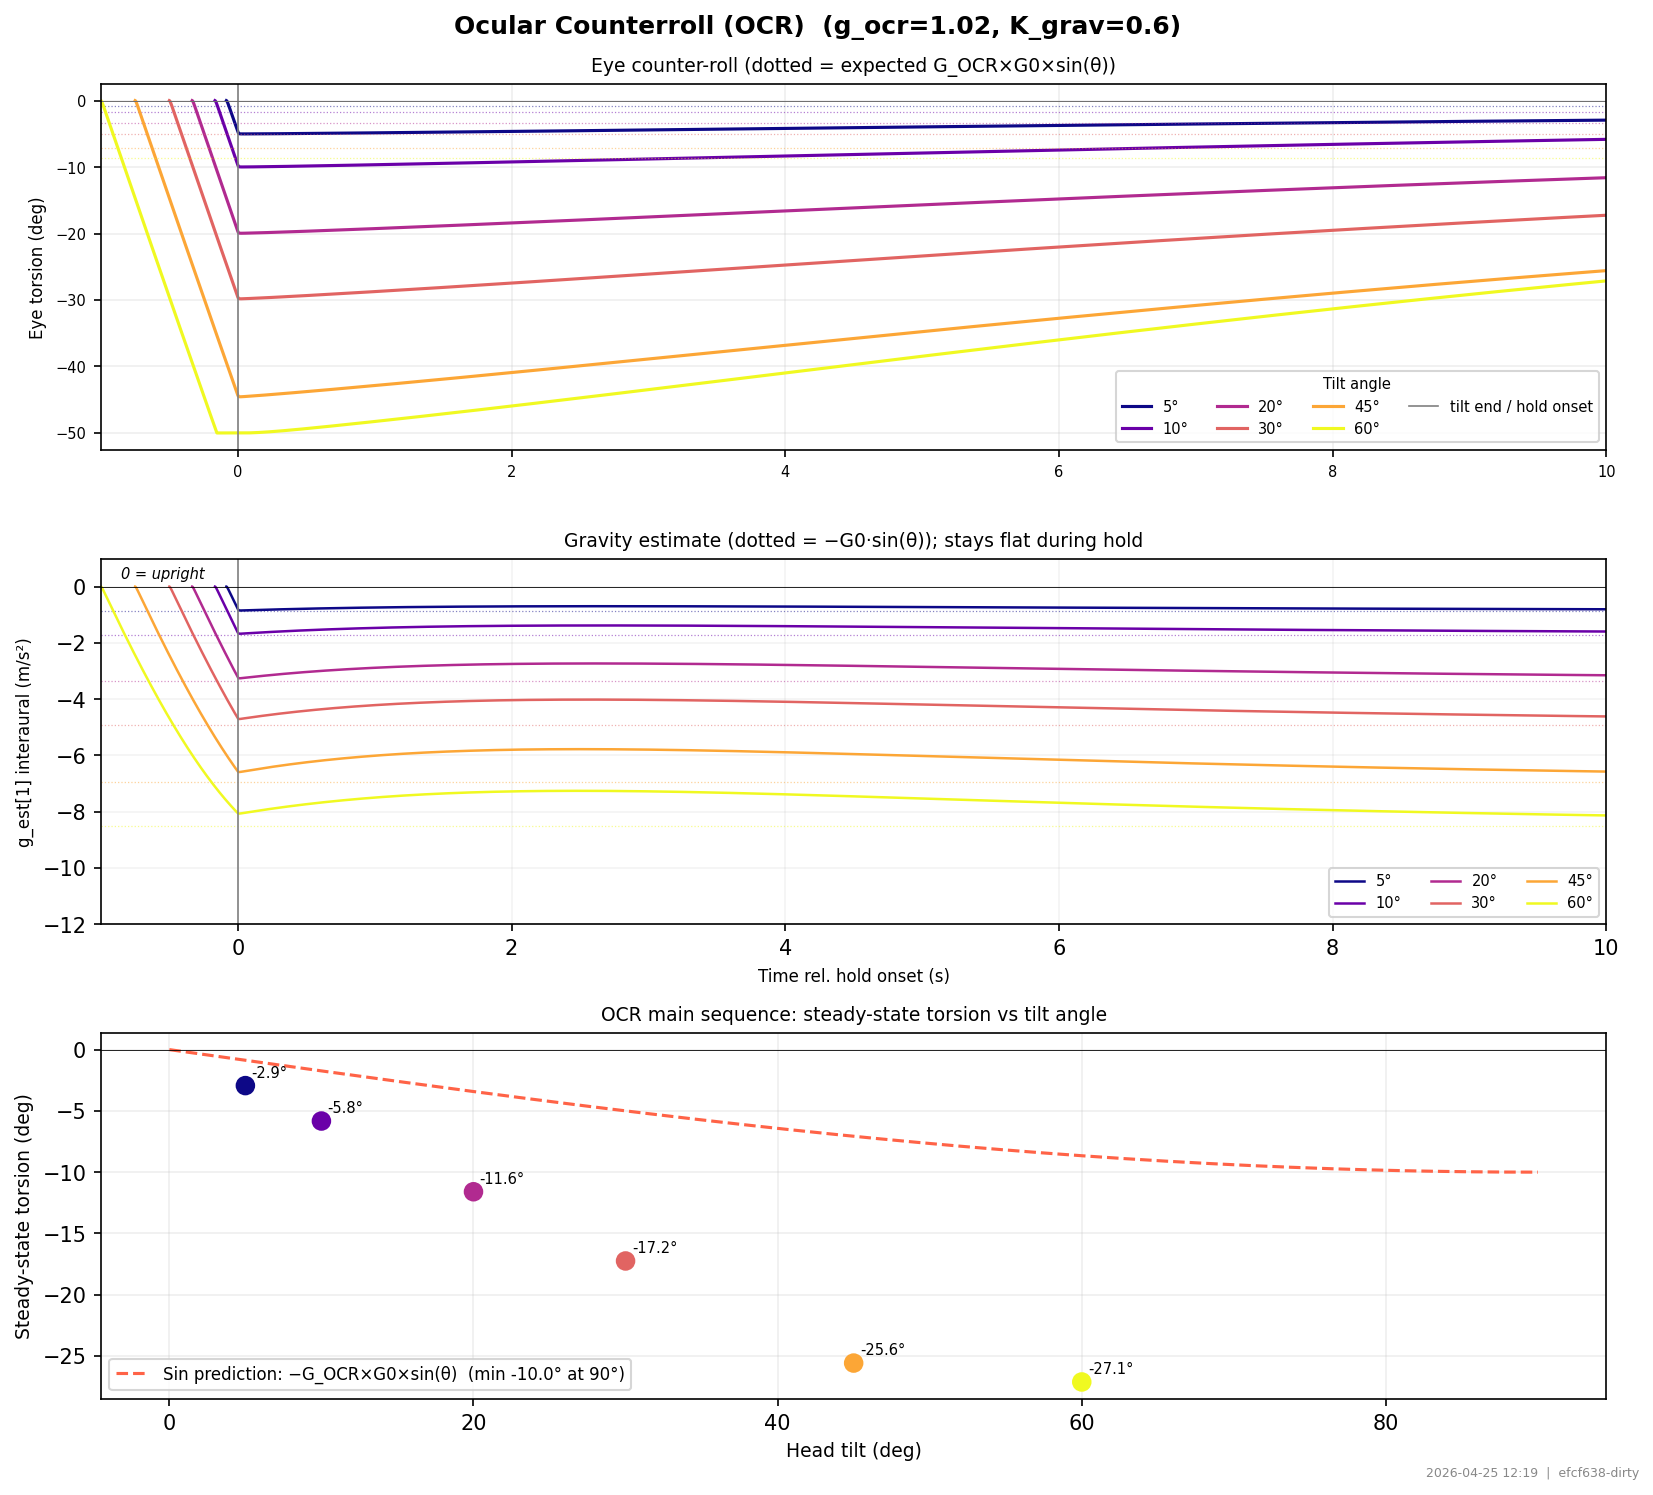
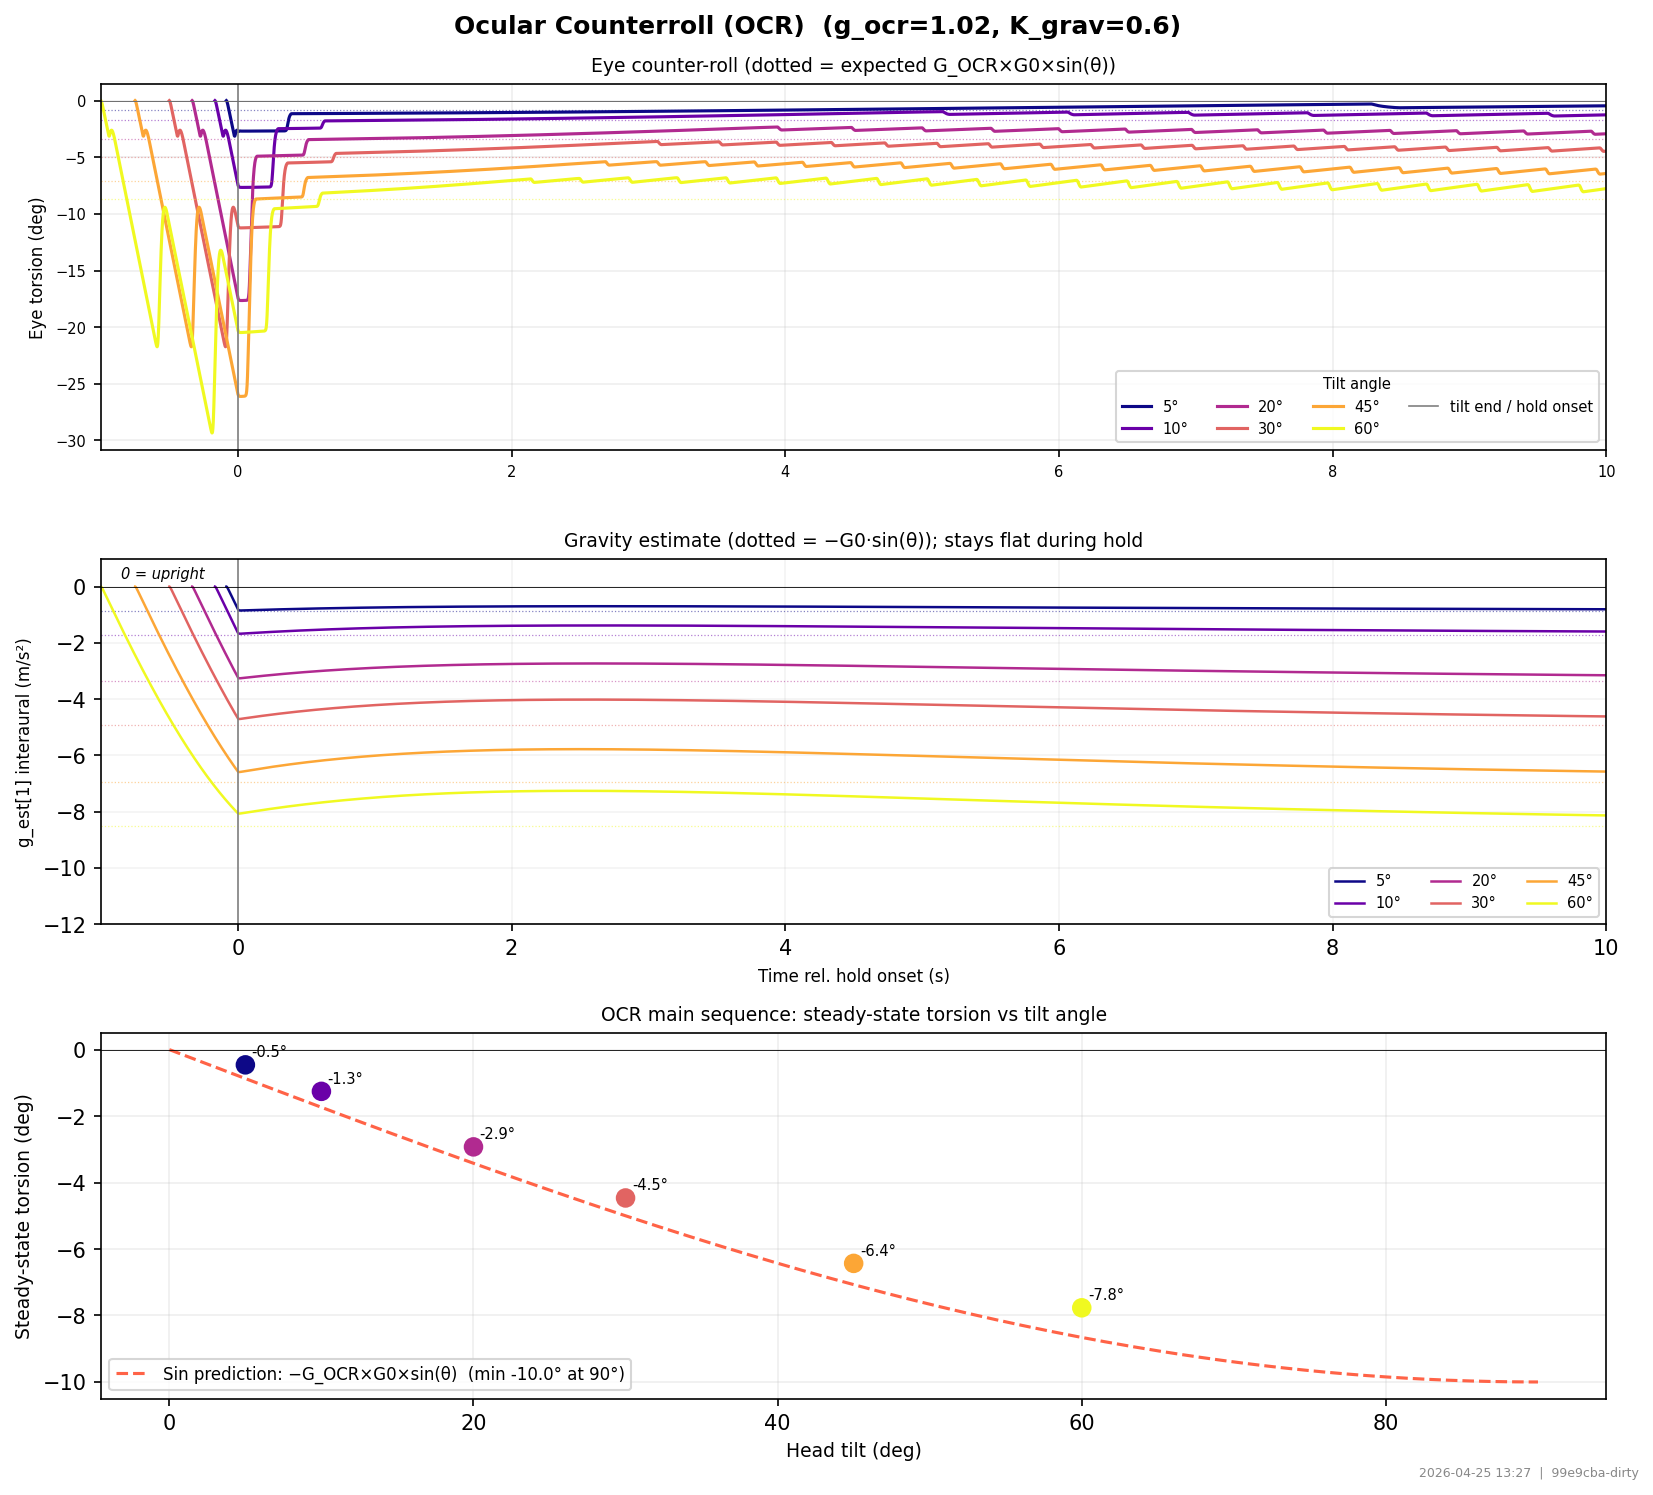
lots of fixes to torsion, seems to work pretty good

diff --git a/docs/benchmarks/index.html b/docs/benchmarks/index.html
@@ -135,18 +135,6 @@ h1   { font-size: 22px; margin-bottom: 4px; }
     </div>
 
     <div class="fig-card">
-      <a href="figures/vor_tc_comparison.png" target="_blank"><img src="figures/vor_tc_comparison.png" alt="VOR Time-Constant Extension"></a>
-      <h3>VOR Time-Constant Extension</h3>
-      <p class="desc">SPV decay after step rotation: with VS (tau_vs=20 s) vs without VS (tau_vs≈0). Bottom: velocity storage state trajectory during and after rotation.</p>
-      <div class="expected">
-        <strong>Expected behavior</strong>
-        Without VS: TC ≈ 5 s (canal); with VS: TC ≈ 15–25 s (velocity storage extends it ~4×).
-      </div>
-      <p class="citation">&#128214; Cohen, Matsuo & Raphan (1977) J Neurophysiol</p>
-      <span class="badge behavior">behavior</span>
-    </div>
-
-    <div class="fig-card">
       <a href="figures/vor_okr_cascade.png" target="_blank"><img src="figures/vor_okr_cascade.png" alt="VOR / OKR Signal Cascade (Internal)"></a>
       <h3>VOR / OKR Signal Cascade (Internal)</h3>
       <p class="desc">Left column (VOR in dark): head velocity → canal afferents → VS state → NI state → eye velocity. Right column (OKN): scene velocity → delayed retinal slip → VS → NI → eye velocity.</p>

diff --git a/src/oculomotor/models/brain_models/brain_model.py b/src/oculomotor/models/brain_models/brain_model.py
@@ -454,15 +454,16 @@ def step(x_brain, sensory_out, brain_params):
     # Canal velocity (not VS output) for gravity transport: canal decays with tau_c~5s so
     # sustained yaw rotation won't drive g_est[z] to large values and break tilt dumping.
     canal_vel       = PINV_SENS @ sensory_out.canal
-    # Otolith outputs in world frame [x=right, y=up, z=fwd]; gravity estimator uses canal frame
-    # [x=yaw=up, y=pitch, z=roll].  Mapping from _q2rv: canal=[yaw,pitch,roll]→world=[-pitch,yaw,roll]
-    # Inverse: canal[0]=world[1], canal[1]=-world[0], canal[2]=world[2]
-    f_oto_canal     = jnp.array([sensory_out.otolith[1], -sensory_out.otolith[0], sensory_out.otolith[2]])
-    dx_grav, g_est = ge.step(x_grav, jnp.concatenate([canal_vel, f_oto_canal]), brain_params)
-    # OCR: g_est[1] < 0 when left ear down (positive roll, canal-y = rightward).
-    # For left-ear-down tilt, OCR should be negative (eye rolls in the same
-    # rotational direction as head → top-of-eye tilts toward lowered ear).
-    # g_ocr in deg/(m/s²): g_est[1] already carries the correct sign.
+    # gravity_estimator frame: x=up, y=interaural(leftward), z=fwd (X0=[G0,0,0] at upright).
+    # canal_vel is in [yaw, pitch, roll] = [rotation-about-up, rotation-about-interaural, rotation-about-fwd].
+    # GE needs angular velocity in same axes: ge_x=canal[0] (yaw=up), ge_y=−canal[1] (pitch sign flip), ge_z=canal[2].
+    w_for_ge        = jnp.array([canal_vel[0], -canal_vel[1], canal_vel[2]])
+    # sensory_out.otolith = f_gia in head frame using world convention x=right, y=up, z=fwd (G_WORLD=[0,G0,0]).
+    # Convert to GE convention [x=up, y=interaural(leftward), z=fwd]: ge_x=f[1], ge_y=−f[0], ge_z=f[2].
+    # At upright: f_gia=[0,G0,0] → f_oto_ge=[G0,0,0]=X0 ✓; left-ear-down: f_oto_ge[1]<0 → OCR<0 ✓.
+    f_oto_ge        = jnp.array([sensory_out.otolith[1], -sensory_out.otolith[0], sensory_out.otolith[2]])
+    dx_grav, g_est = ge.step(x_grav, jnp.concatenate([w_for_ge, f_oto_ge]), brain_params)
+    # OCR: g_est[1] < 0 when left-ear-down (positive roll) → torsion negative = eye rolls left-ear-down.
     ocr            = jnp.array([0.0, 0.0, brain_params.g_ocr * g_est[1]])
 
     # ── Pursuit: target-gated EC-corrected velocity → pursuit integrator ─────────

diff --git a/scripts/bench_gravity.py b/scripts/bench_gravity.py
@@ -78,7 +78,7 @@ def _ocr(show):
     TILT_VEL  = 60.0
     HOLD_T    = 10.0
 
-    params = with_brain(PARAMS_DEFAULT, g_ocr=G_OCR, g_burst=0.0)
+    params = with_brain(PARAMS_DEFAULT, g_ocr=G_OCR, g_burst=700.0)
     cmap   = plt.get_cmap('plasma')
     colors = [cmap(i / (len(TILTS_DEG) - 1)) for i in range(len(TILTS_DEG))]
 
@@ -458,7 +458,10 @@ def _somatogravic_frequency(show):
         eye_roll = (np.array(st.plant[:, 2]) + np.array(st.plant[:, 5])) / 2.0
         g_est    = np.array(st.brain[:, _IDX_GRAV])
 
-        i_ss = int((total - 3.0 / freq) / DT)
+        # Align display start to a complete cycle boundary so a_lat starts at 0.
+        n_full_cycles   = int(total * freq)
+        display_cycle   = max(0, n_full_cycles - 3)
+        i_ss            = int(display_cycle / freq / DT)
         peak = float(np.max(np.abs(eye_roll[i_ss:])))
         amp_model.append(peak)
 
